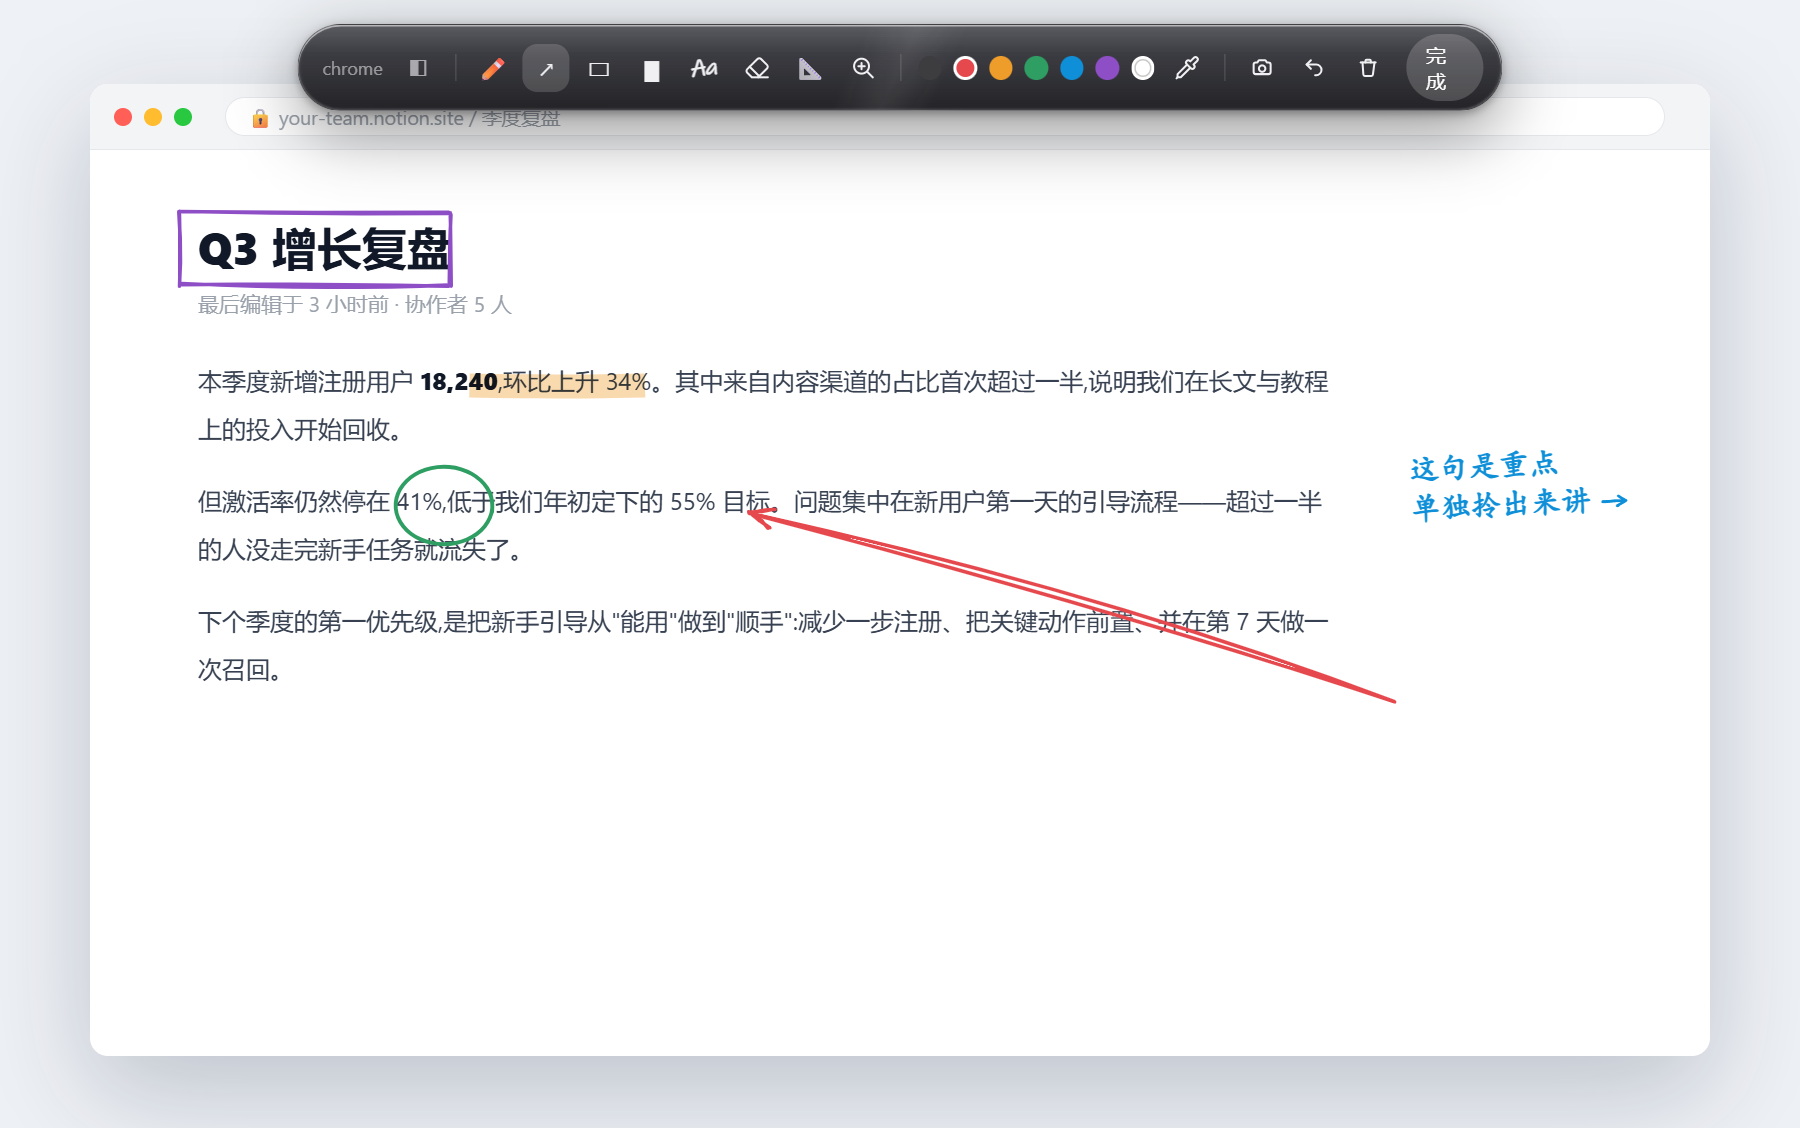
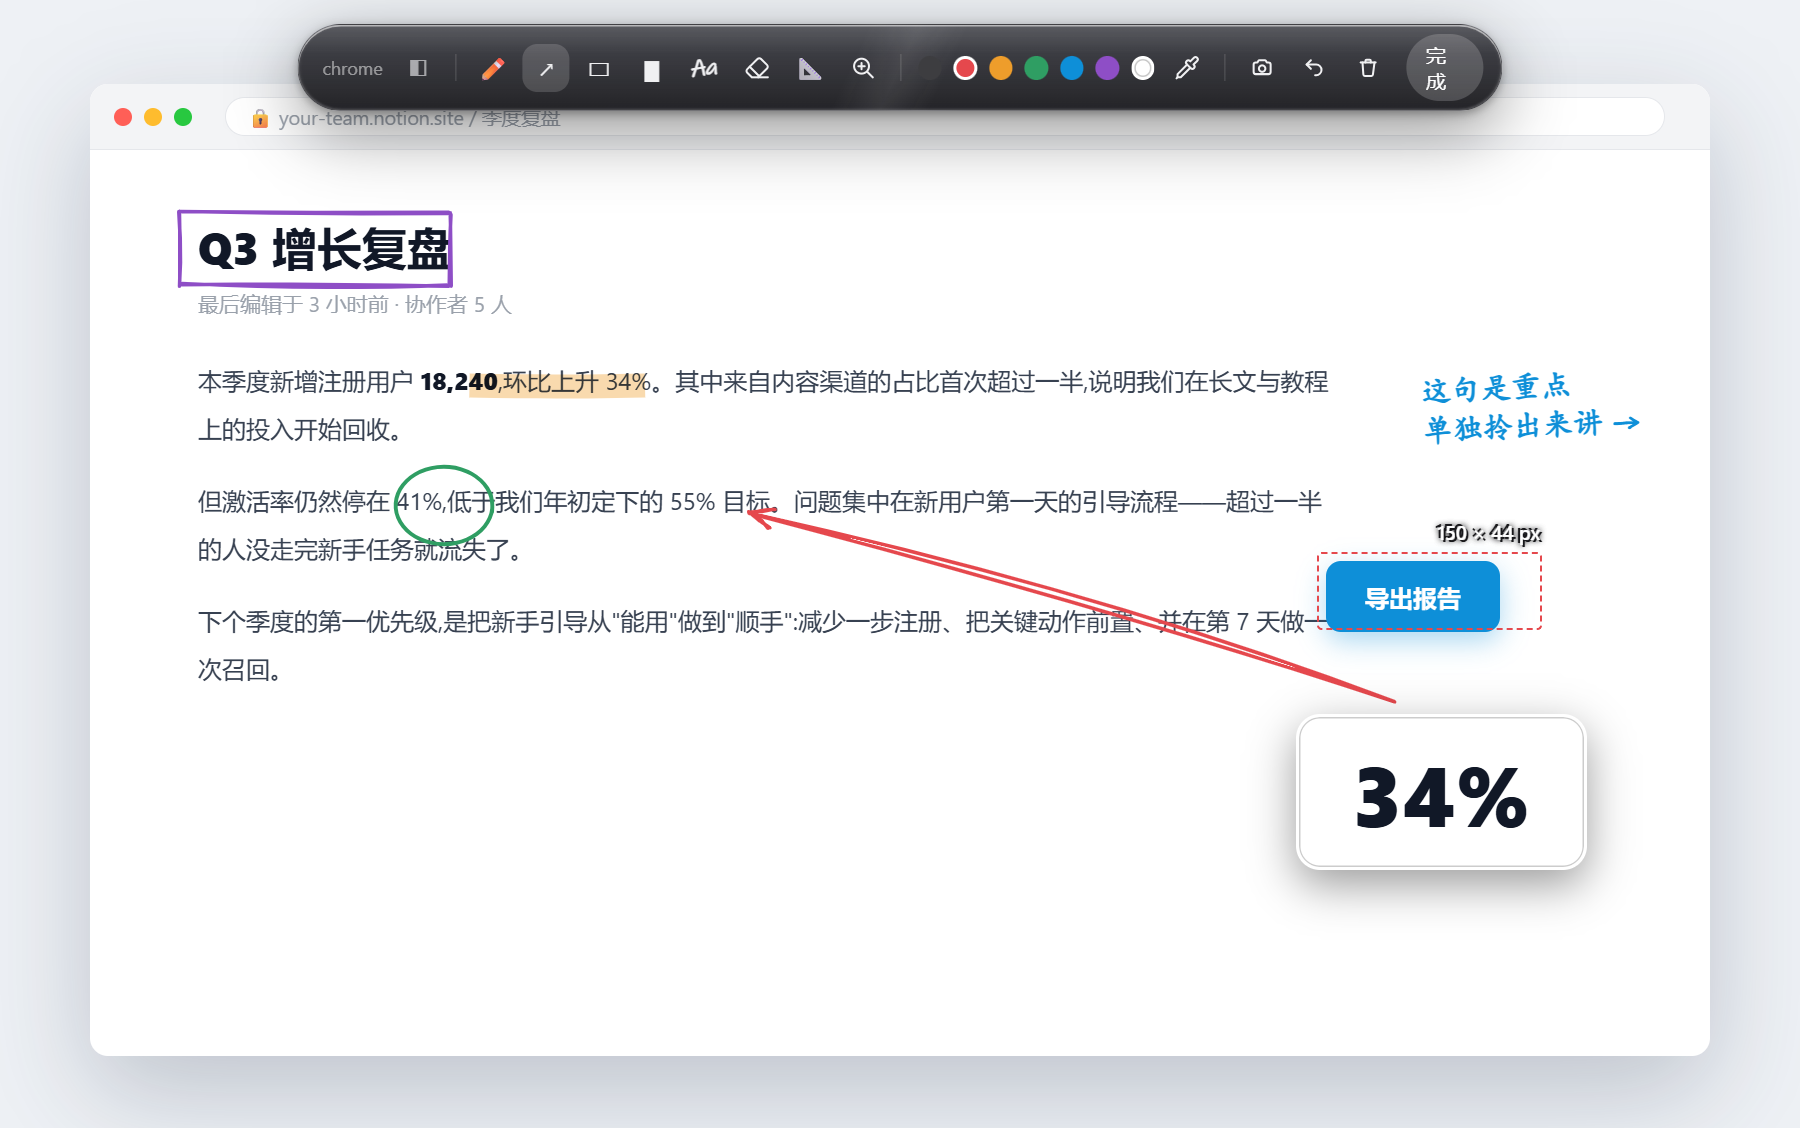
docs: hero 配图展示更多功能(测量标尺 + 放大镜)
hero 加上测量标尺(量右侧示例按钮尺寸)+ 放大镜(放大数字)的视觉,便签上移让位;
现在一图展示 方框 / 荧光 / 圈 / 箭头 / 便签 / 标尺 / 放大镜,配合工具条图标覆盖全部功能。

Changed region(s): [[0.7156, 0.3103, 0.9022, 0.5895], [0.6844, 0.6516, 0.9022, 0.8067]]

diff --git a/docs/gen-screenshots.js b/docs/gen-screenshots.js
@@ -85,6 +85,16 @@ function heroHTML(withToolbar) {
   .wa-toolbar i{width:16px;height:16px;border-radius:50%;display:inline-block;margin:0 2px;border:2px solid transparent}
   .wa-toolbar i.c-on{border-color:#fff}
   .wa-toolbar b{margin-left:6px;padding:5px 13px;background:rgba(255,255,255,.18);border-radius:999px;color:#fff;font-size:13px;font-weight:500}
+  /* 测量标尺:虚线框 + 框外右下角物理像素标签 */
+  .ha-ruler{position:absolute;border:1.6px dashed #e5484d;border-radius:3px;z-index:8}
+  .ha-ruler span{position:absolute;right:0;bottom:100%;margin-bottom:6px;font:600 13px 'Segoe UI';color:#fff;white-space:nowrap;
+    text-shadow:0 0 4px #18181b,0 0 4px #18181b,1.5px 1.5px 0 #18181b,-1.5px -1.5px 0 #18181b}
+  /* 放大镜镜片:圆角玻璃边 + 阴影,里面是放大的内容 */
+  .ha-loupe{position:absolute;border-radius:16px;overflow:hidden;z-index:8;background:#fff;
+    border:2px solid rgba(255,255,255,.92);box-shadow:0 10px 30px rgba(0,0,0,.4),inset 0 0 0 1px rgba(0,0,0,.2);
+    display:flex;align-items:center;justify-content:center;font-weight:800;color:#111827}
+  /* 示例按钮:给测量标尺量尺寸用（放右侧空白，不压正文）*/
+  .ha-btn{position:absolute;padding:13px 26px;background:#0e8fd8;color:#fff;border-radius:10px;font-weight:600;font-size:16px;z-index:7;box-shadow:0 6px 18px rgba(14,143,216,.35)}
   </style></head><body>
     <div class="win">
       <div class="chrome">
@@ -102,6 +112,11 @@ function heroHTML(withToolbar) {
     ${toolbar}
     <svg id="canvas"><g id="hl-layer"></g><g id="ink-layer"></g></svg>
     <div id="notes"></div>
+    <!-- 示例按钮 + 测量标尺量它的尺寸(放右侧空白,不压正文) -->
+    <div class="ha-btn" style="left:884px;top:374px">导出报告</div>
+    <div class="ha-ruler" style="left:878px;top:368px;width:150px;height:52px"><span>150 × 44 px</span></div>
+    <!-- 放大镜:放大"34%"看细节(展示放大镜功能) -->
+    <div class="ha-loupe" style="left:864px;top:476px;width:194px;height:104px;font-size:56px">34%</div>
     <script>${RENDER}
     function circle(cx,cy,r){const pts=[];for(let a=-0.3;a<Math.PI*2+0.3;a+=0.25){pts.push([cx+Math.cos(a)*r*1.25,cy+Math.sin(a)*r]);}return pts;}
     render([
@@ -114,7 +129,7 @@ function heroHTML(withToolbar) {
       // 红色手绘箭头指向激活率那句
       {type:'arrow',color:'red',from:[930,468],to:[500,342],seed:7},
       // 蓝色手写便签
-      {type:'note',color:'blue',x:940,y:298,text:'这句是重点\\n单独拎出来讲 →',rot:-3},
+      {type:'note',color:'blue',x:948,y:246,text:'这句是重点\\n单独拎出来讲 →',rot:-3},
     ]);
     </script>
   </body></html>`;
